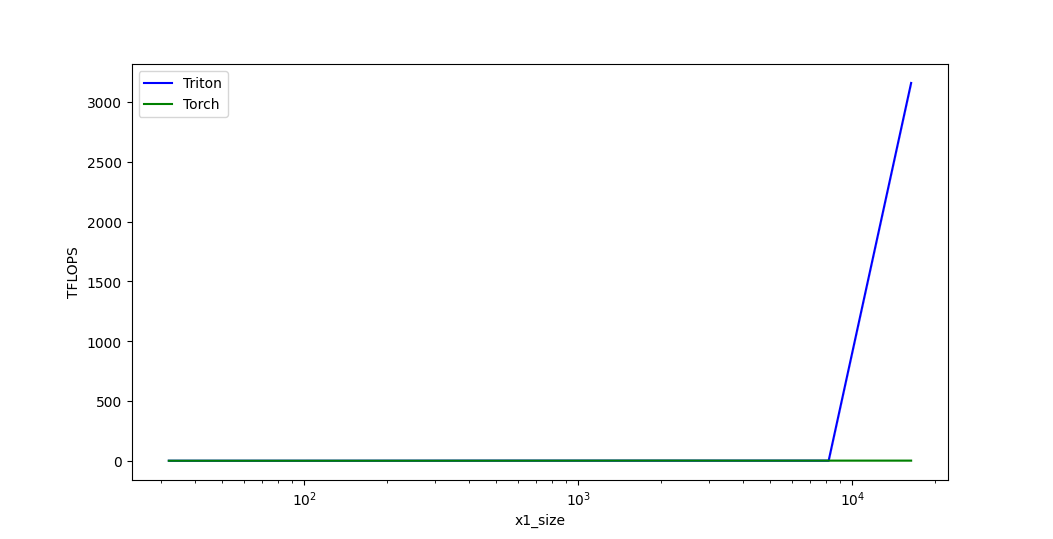
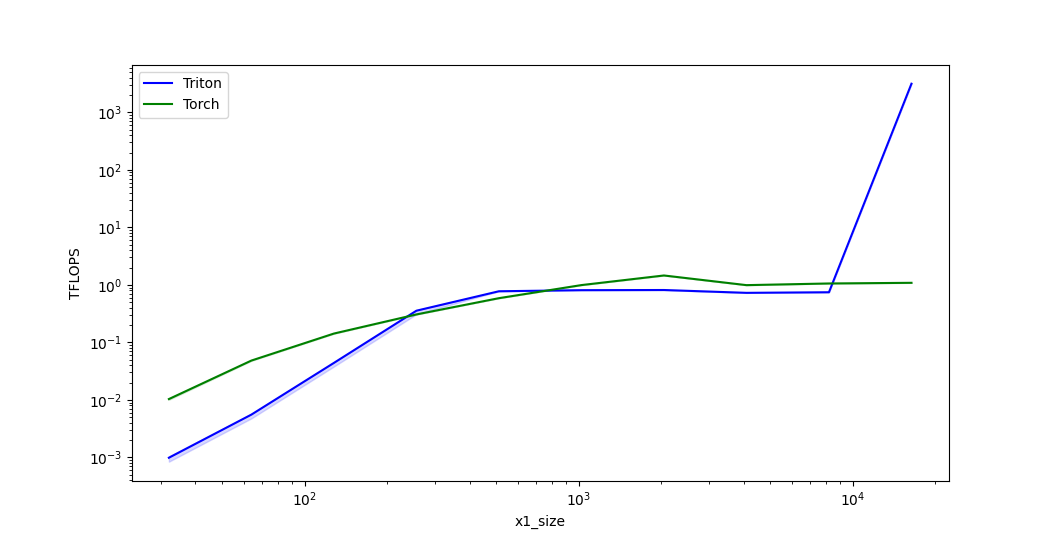
log-scale plots and cleaner import

diff --git a/tests/performance.py b/tests/performance.py
@@ -10,6 +10,7 @@ import torch
         x_names=['x1_size', 'x2_size', 'rd_size'],
         x_vals=[2**i for i in range(5, 15, 1)],
         x_log=True,
+        y_log=True,
         line_arg='provider',
         line_vals=['triton', 'torch'],
         line_names=['Triton', 'Torch'],

diff --git a/triton_cdist/__init__.py b/triton_cdist/__init__.py
@@ -1,0 +1,3 @@
+#!/usr/bin/env python3
+
+from .lp_reduce import *

diff --git a/README.md b/README.md
@@ -4,9 +4,9 @@ Performant Implementation of `torch.cdist` using [Triton](https://triton-lang.or
 
 ## Usage
 
-Clone this repository. In the project root, run `pip install -e .`, and witihn your code, include:
+Run `pip install git+https://github.com/jinensetpal/triton_cdist.git`, then witihn your code, include:
 ```python3
-from triton_cdist import lp_reduce  # registers operator
+import triton_cdist  # registers operator
 
 # from here you can use it as a stand-in replacement of `torch.cdist`.
 
@@ -21,33 +21,35 @@ torch.ops.triton_cdist.opt_cdist(x1, x2, p=p)  #  previously, `torch.cdist(x1, x
 ### p = 1:
 ```
    x1_size  x2_size  rd_size       Triton     Torch
-0     32.0     32.0     32.0     0.001055  0.010039
-1     64.0     64.0     64.0     0.005791  0.047628
-2    128.0    128.0    128.0     0.046728  0.141699
-3    256.0    256.0    256.0     0.370915  0.310505
-4    512.0    512.0    512.0     0.782446  0.587973
-5   1024.0   1024.0   1024.0     0.809584  0.991254
-6   2048.0   2048.0   2048.0     0.814923  1.457696
-7   4096.0   4096.0   4096.0     0.778511  1.016069
-8   8192.0   8192.0   8192.0     0.764827  1.074763
-9  16384.0  16384.0  16384.0  3161.205839  1.098733
+0     32.0     32.0     32.0     0.000987  0.010343
+1     64.0     64.0     64.0     0.005554  0.048330
+2    128.0    128.0    128.0     0.043991  0.142470
+3    256.0    256.0    256.0     0.355691  0.306332
+4    512.0    512.0    512.0     0.774858  0.587438
+5   1024.0   1024.0   1024.0     0.809252  0.992155
+6   2048.0   2048.0   2048.0     0.814649  1.457526
+7   4096.0   4096.0   4096.0     0.727230  0.990029
+8   8192.0   8192.0   8192.0     0.744964  1.058306
+9  16384.0  16384.0  16384.0  3148.153789  1.086596
 ```
 
 ![benchmark plot with p=1](.github/benchmark_p1.png)
 
 ### p = 2:
-```
+lp-dist-performance:
    x1_size  x2_size  rd_size       Triton      Torch
-0     32.0     32.0     32.0     0.000641   0.001448
-1     64.0     64.0     64.0     0.005098   0.011338
-2    128.0    128.0    128.0     0.040794   0.080610
-3    256.0    256.0    256.0     0.323485   0.644484
-4    512.0    512.0    512.0     0.782519   4.161016
-5   1024.0   1024.0   1024.0     0.809511  17.041356
-6   2048.0   2048.0   2048.0     0.813938  34.102198
-7   4096.0   4096.0   4096.0     0.758600  34.713258
-8   8192.0   8192.0   8192.0     0.760765  35.850885
-9  16384.0  16384.0  16384.0  6063.126753  35.545086
+0     32.0     32.0     32.0     0.001088   0.001457
+1     64.0     64.0     64.0     0.005764   0.011354
+2    128.0    128.0    128.0     0.046545   0.091787
+3    256.0    256.0    256.0     0.371046   0.649675
+4    512.0    512.0    512.0     0.782738   4.238812
+5   1024.0   1024.0   1024.0     0.807509  16.929583
+6   2048.0   2048.0   2048.0     0.815141  34.141235
+7   4096.0   4096.0   4096.0     0.744393  34.659753
+8   8192.0   8192.0   8192.0     0.749923  36.397180
+9  16384.0  16384.0  16384.0  4105.596799  34.941022
+```
+
 ```
 
 ![benchmark plot with p=2](.github/benchmark_p2.png)
@@ -55,16 +57,16 @@ torch.ops.triton_cdist.opt_cdist(x1, x2, p=p)  #  previously, `torch.cdist(x1, x
 ### p = 10:
 ```
    x1_size  x2_size  rd_size       Triton     Torch
-0     32.0     32.0     32.0     0.000633  0.009570
-1     64.0     64.0     64.0     0.005087  0.040554
-2    128.0    128.0    128.0     0.040580  0.109227
-3    256.0    256.0    256.0     0.324035  0.201610
-4    512.0    512.0    512.0     0.782446  0.312658
-5   1024.0   1024.0   1024.0     0.810944  0.418672
-6   2048.0   2048.0   2048.0     0.815644  0.500449
-7   4096.0   4096.0   4096.0     0.751729  0.466386
-8   8192.0   8192.0   8192.0     0.758431  0.486487
-9  16384.0  16384.0  16384.0  4844.431746  0.496220
+0     32.0     32.0     32.0     0.000609  0.009752
+1     64.0     64.0     64.0     0.004965  0.041374
+2    128.0    128.0    128.0     0.039444  0.109500
+3    256.0    256.0    256.0     0.311983  0.200992
+4    512.0    512.0    512.0     0.779900  0.312088
+5   1024.0   1024.0   1024.0     0.807815  0.418651
+6   2048.0   2048.0   2048.0     0.815288  0.492365
+7   4096.0   4096.0   4096.0     0.746226  0.475460
+8   8192.0   8192.0   8192.0     0.743407  0.479933
+9  16384.0  16384.0  16384.0  4849.987741  0.487056
 ```
 
 ![benchmark plot with p=10](.github/benchmark_p10.png)
